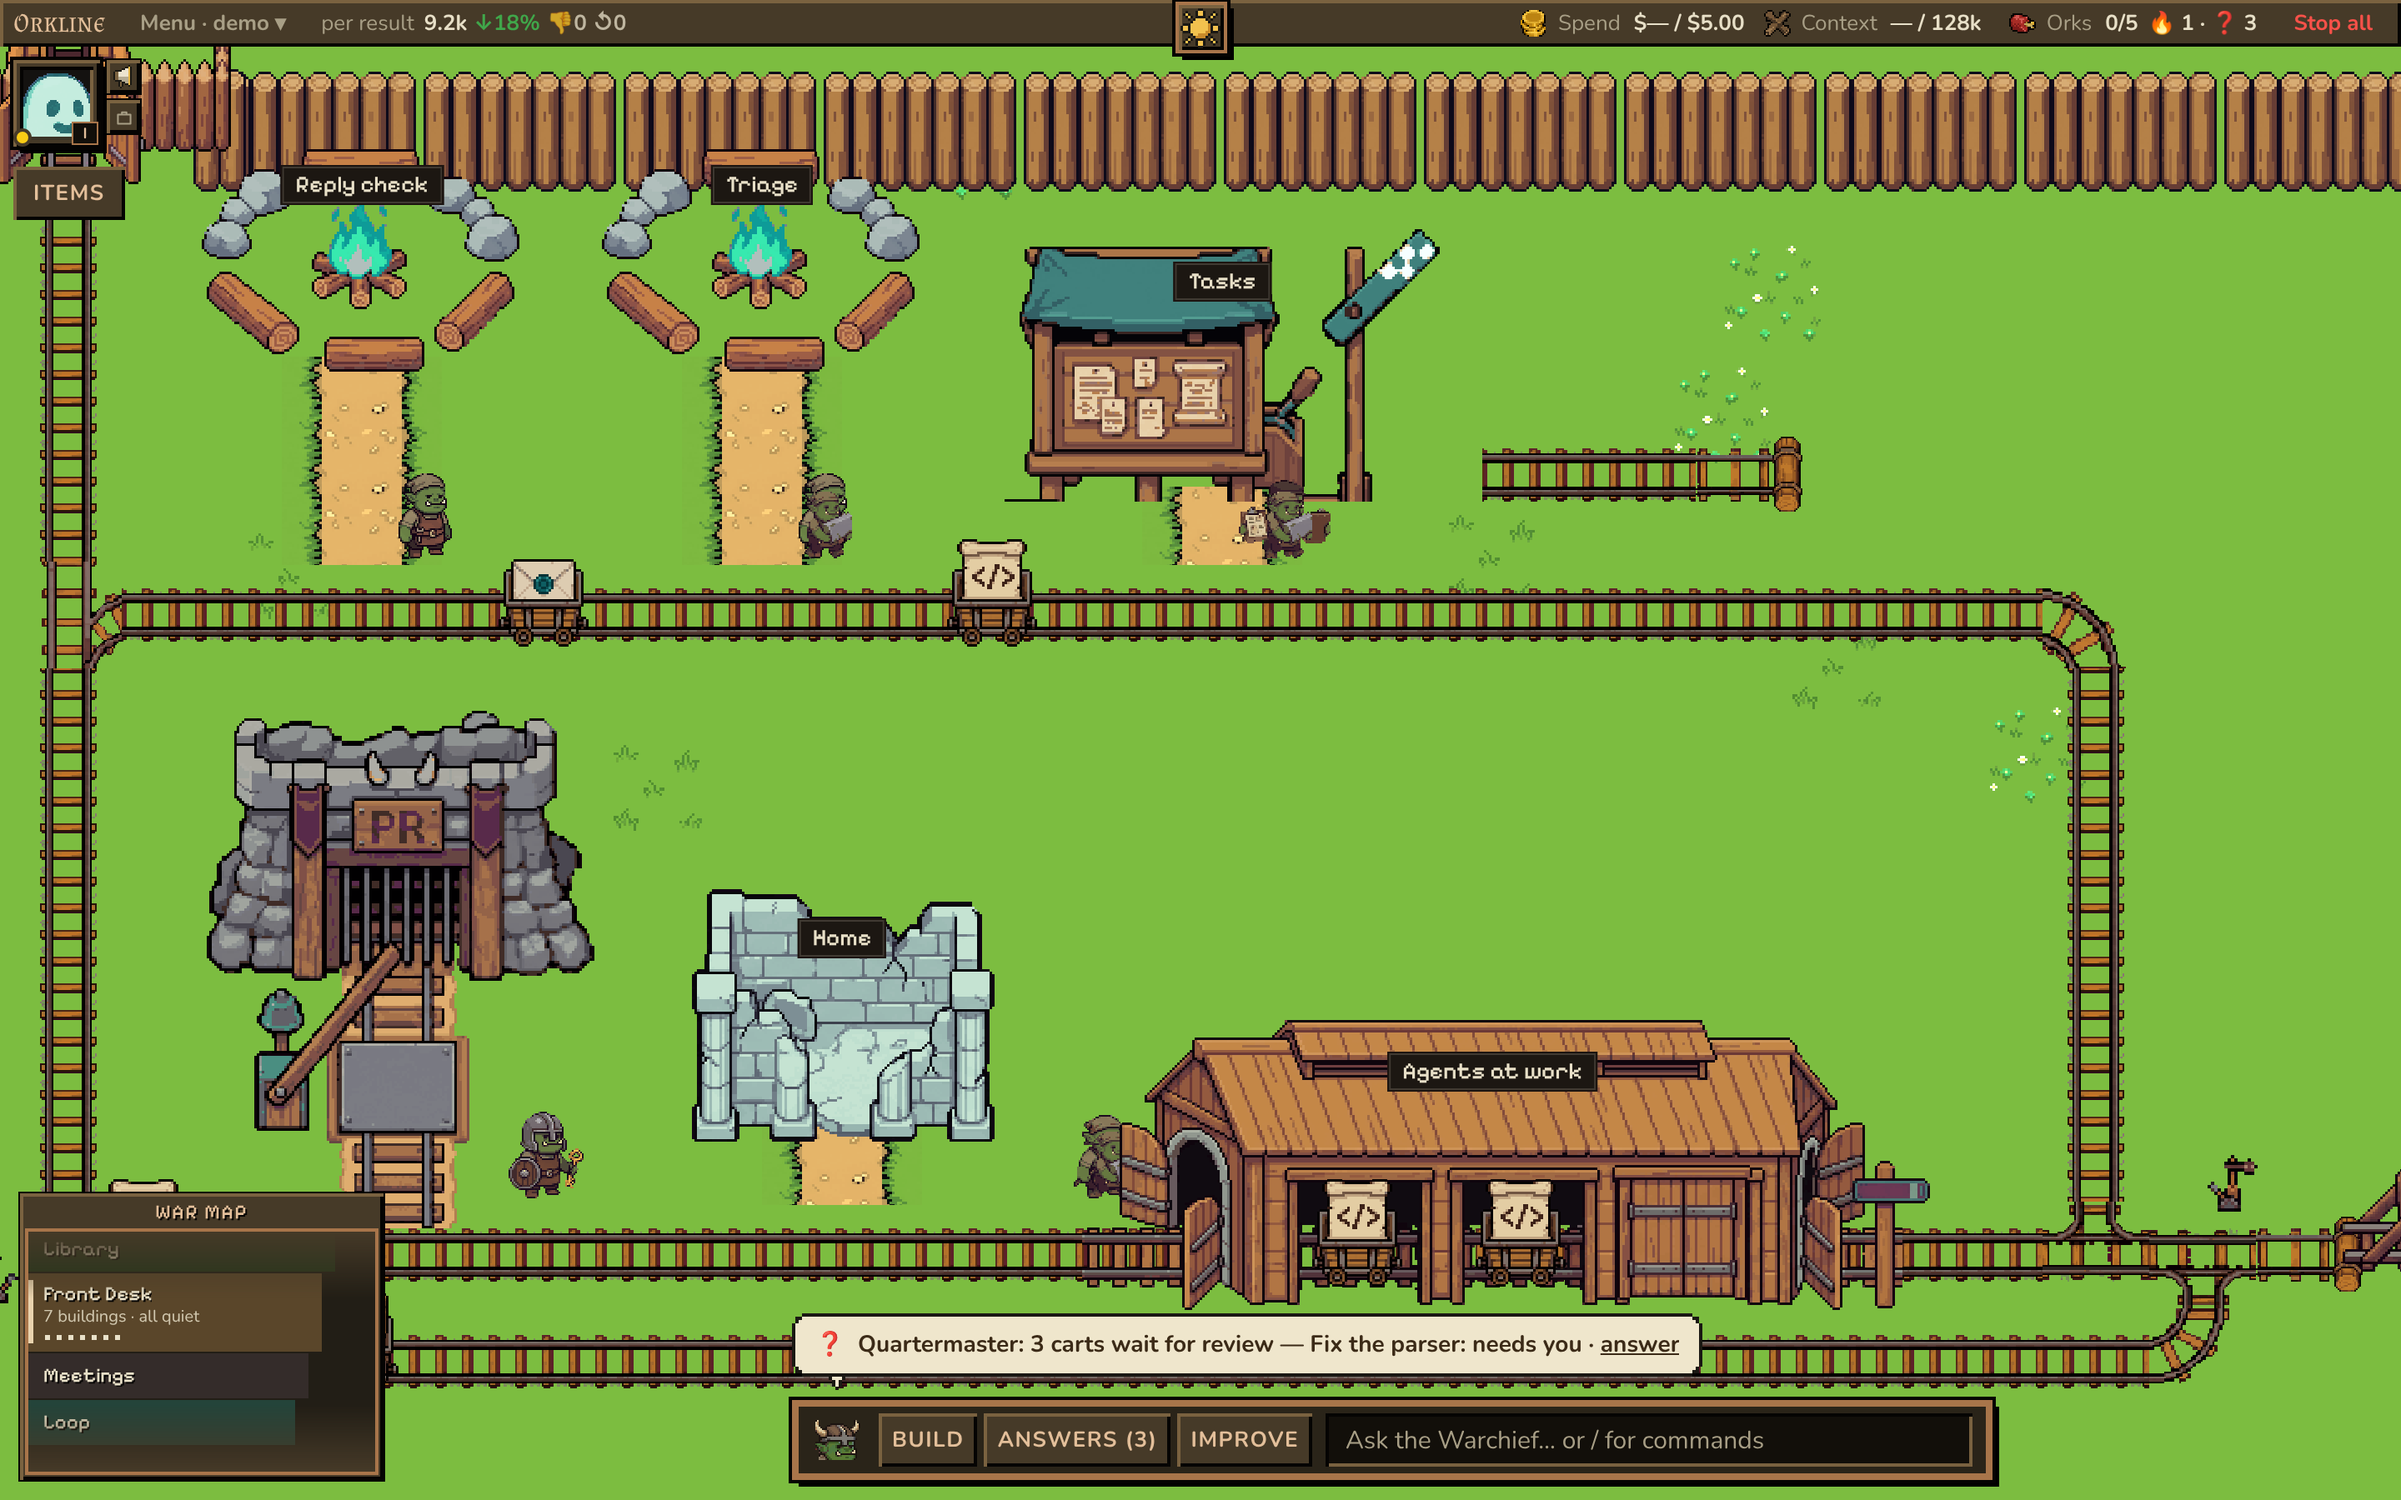
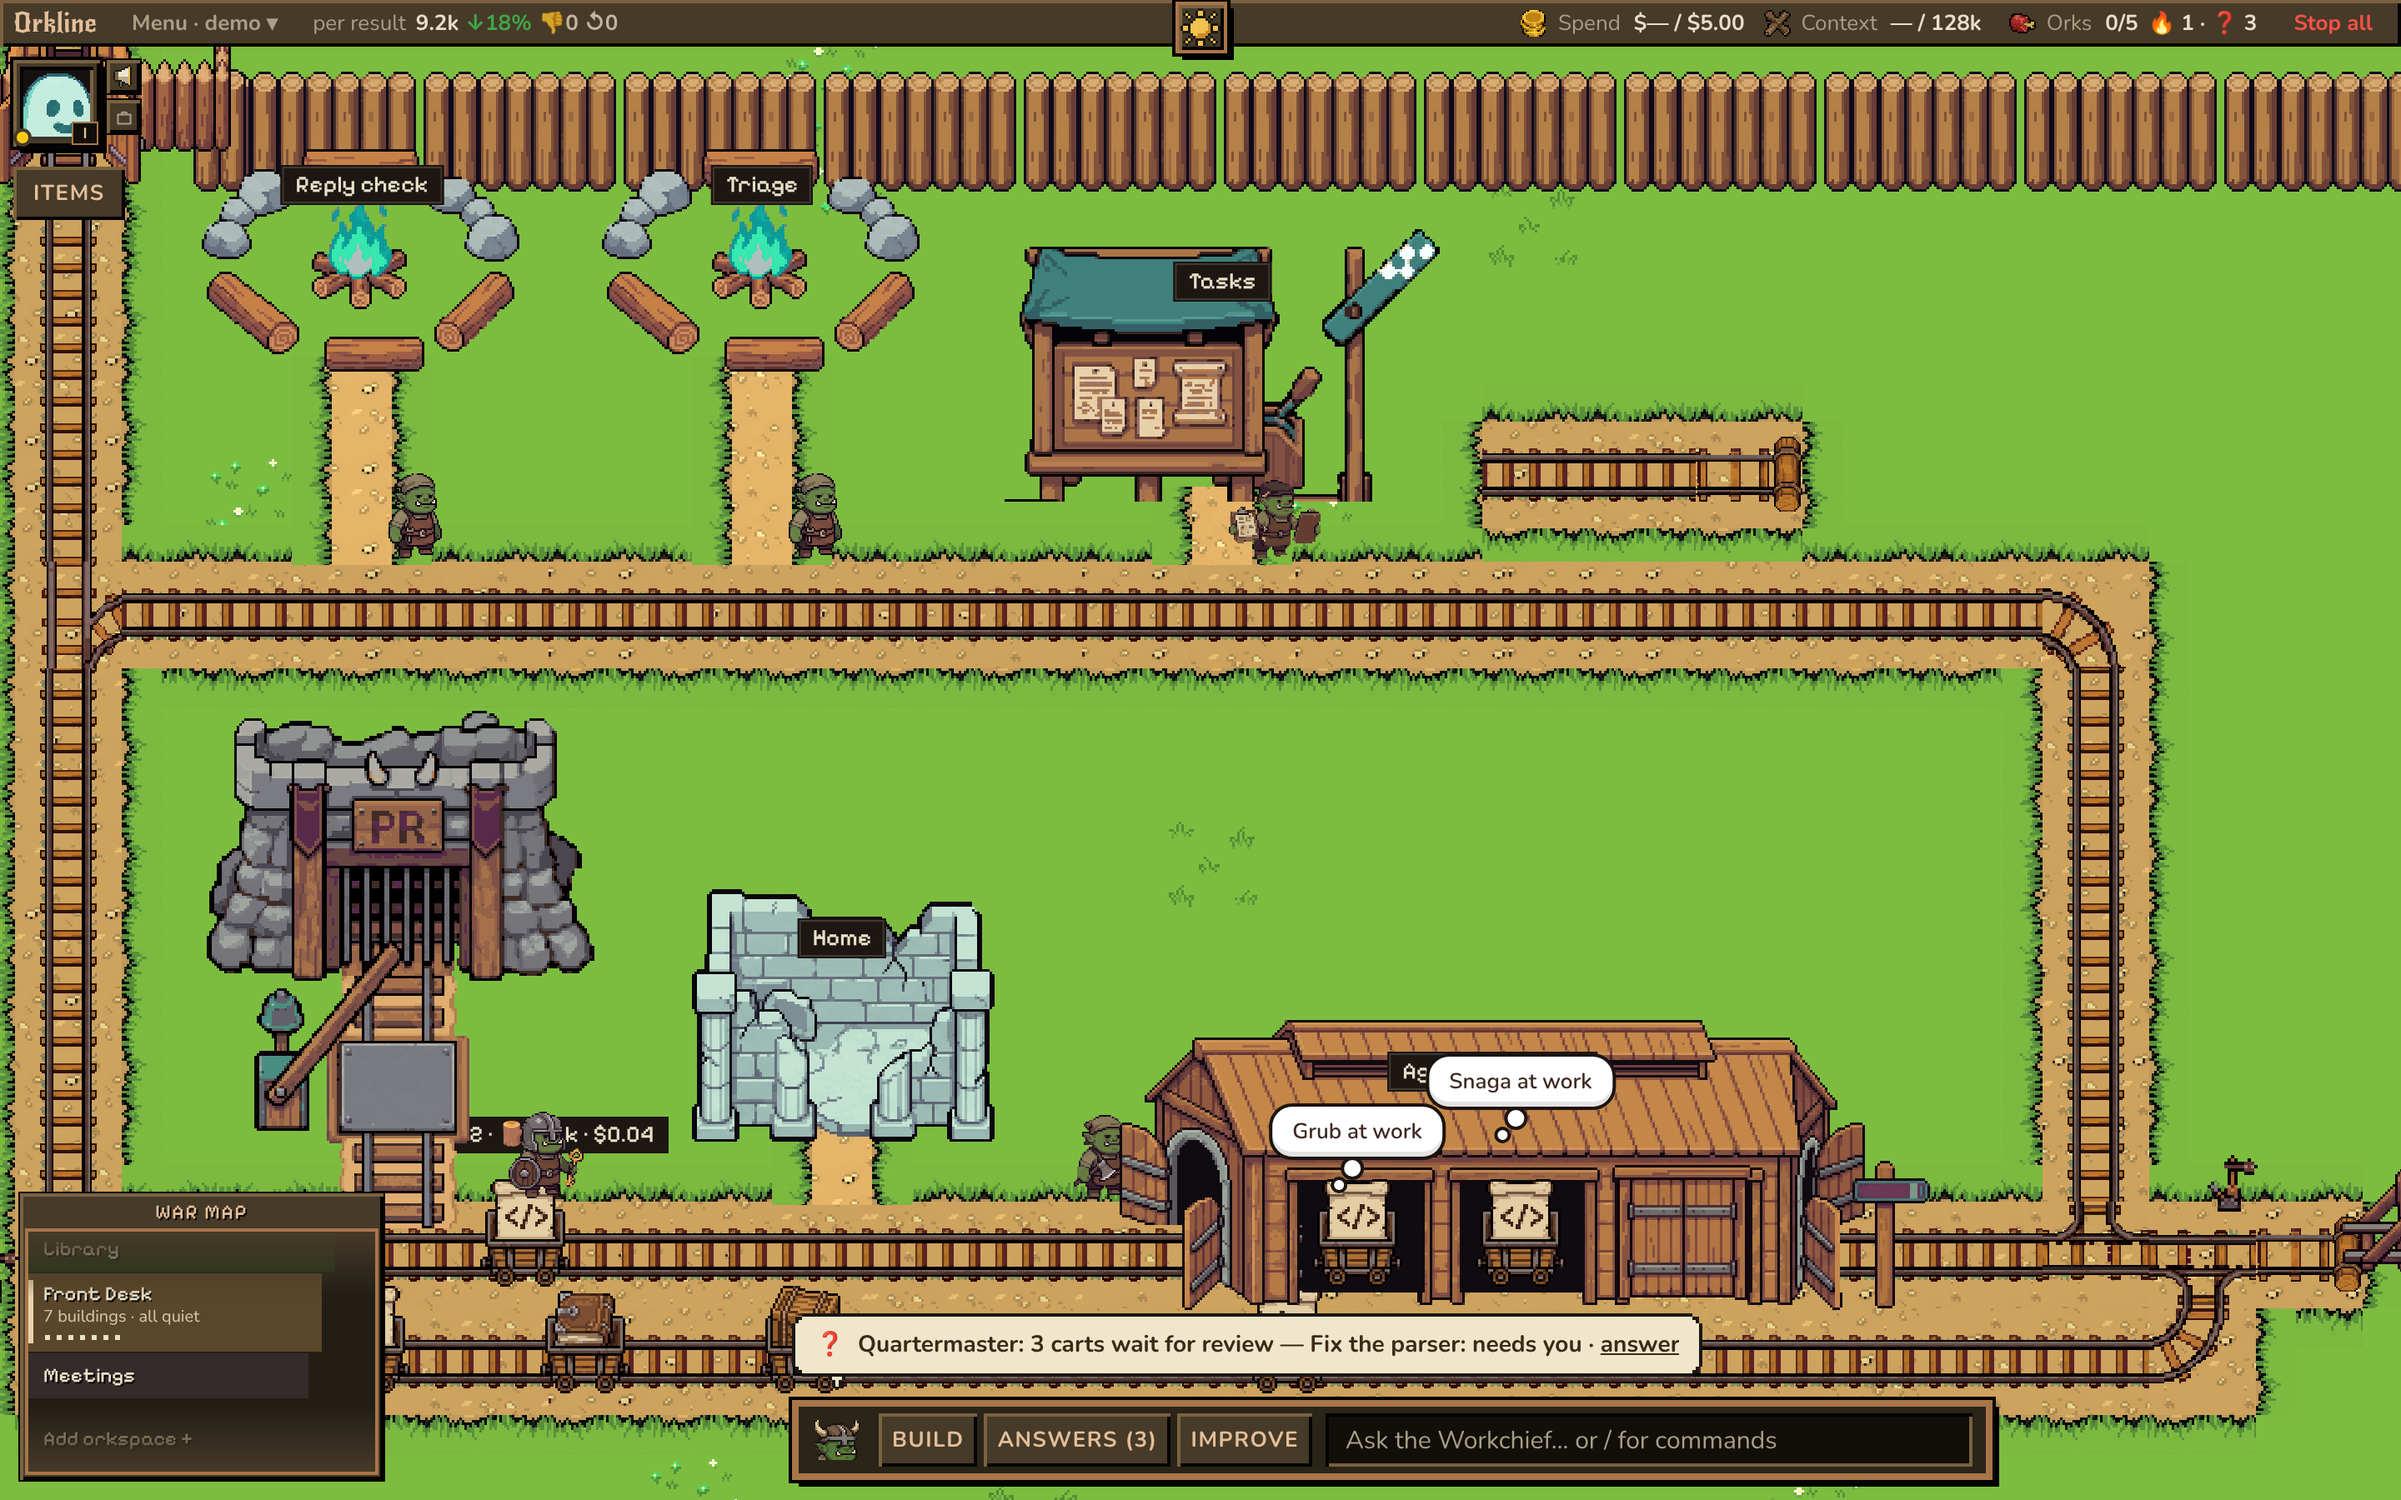
Camp: the depot over the line, a Grunt's bubble over each busy bay
The depot's sprite lost its drawn rails (780747a): the camp's line runs
under the shed and shows at its gateways. A busy bay shows the cart in
hand in its dark opening and its own Grunt's bubble over it (its name at
work), drawn above the shed; a free bay keeps its shutters.

Claude-Session: https://claude.ai/code/session_01UgRxyAxUf28MQWrZTqTq3V

diff --git a/orkcraft/gui/static/js/camp/town.js b/orkcraft/gui/static/js/camp/town.js
@@ -18,7 +18,7 @@ import { lay, stepsFor, DEFAULT_STEP, SIDING_SHOWN, PATH_W } from "./layout.js";
 import { V3, kit, loadKit, sizeOf } from "./sprites.js";
 import { grassOf, earthOf, shiftOf, bedOf, hash, STAND_IN } from "./ground.js";
 import { CampCarts, Finale, Switches, arriving, leaving } from "./carts.js";
-import { hovered, StewardOut } from "./steward.js";
+import { hovered, StewardOut, Bubble, thought } from "./steward.js";
 import { Stewards } from "./orks.js";
 import { Badge } from "./signals.js";
 import { typeModule } from "../types.js";
@@ -253,18 +253,25 @@ function Home({ L, you }) {
 /** How many of a building's orks are at work now (the depot's busy bays, §4d). */
 export const busyBays = (b) => (b.garrison || []).filter((o) => o.status === "busy").length || (busyOf(b) ? 1 : 0);
 
-/** The depot's bays (§4d): a busy bay holds the cart a Grunt is at work on; a free one has its shutters closed
- *  (`depot/doors.png`); more at work than its three bays a `+N` chip; the semaphore at its east gateway, where its exit
- *  track (Mission 1b's proving siding) begins. Over the shed, sorted with it. */
-function Depot({ L, buildings }) {
+/** The depot's bays (§4d): a busy bay holds the cart a Grunt is at work on, the Grunt's bubble over it; a free one has
+ *  its shutters closed (`depot/doors.png`); more at work than its three bays a `+N` chip; the semaphore at its east
+ *  gateway, where its exit track (Mission 1b's proving siding) begins. The line runs under the shed (its gateways open
+ *  onto it). Over the shed, sorted with it. */
+function Depot({ L, buildings, onBubble = null }) {
   const B = L.step.b, T = L.T, out = [];
   for (const b of buildings) {
     const p = L.buildings[b.id];
     if (!p || !p.depot) continue;
     const busy = busyBays(b), z = 11 + Math.round(p.feet / 8);
+    const grunts = (b.garrison || []).filter((o) => o.status === "busy");          // each bay's Grunt, its bubble its own
     const doors = sizeOf("depot/doors.png"), cart = sizeOf("carts/code.png") || [40, 48];
     p.bays.forEach((x, i) => {
-      if (i < busy) out.push(img("carts/code.png", x - (cart[0] * B) / 2, p.rail + T * 0.3 - cart[1] * B, cart[0] * B, cart[1] * B, `z-index:${z}`));
+      if (i < busy) {
+        out.push(img("carts/code.png", x - (cart[0] * B) / 2, p.rail + T * 0.3 - cart[1] * B, cart[0] * B, cart[1] * B, `z-index:${z}`));
+        out.push(html`<div class="gui-camp__over" style=${`z-index:${z + 1}`}>
+          <${Bubble} x=${x} y=${p.y + (i % 2 ? 40 : 60) * B} text=${grunts[i] ? say(`${grunts[i].name} at work`) : thought(b)}
+            onClick=${onBubble ? () => onBubble(b) : null} /></div>`);
+      }
       else if (doors) out.push(img("depot/doors.png", x - (doors[0] * B) / 2, p.y + 60 * B, doors[0] * B, doors[1] * B, `z-index:${z}`));
     });
     if (busy > p.bays.length) {
@@ -439,7 +446,7 @@ export function CampTown({ buildings, roads }) {
       </div>
       <${Growth} L=${L} buildings=${buildings} />
       <${Siding} L=${L} buildings=${buildings} />
-      <${Depot} L=${L} buildings=${buildings} />
+      <${Depot} L=${L} buildings=${buildings} onBubble=${onBubble} />
       <${CampCarts} L=${L} roads=${here} bays=${Object.fromEntries(buildings.map((b) => [b.id, busyBays(b)]))} carts=${carts} travel=${travel} avg=${averagePerResult(snapshot.value && snapshot.value.score)} />
       <${Stewards} L=${L} buildings=${buildings} roads=${here} out=${outId} soon=${arriving(L, here, carts, travel)} left=${leaving(here, carts)}
         onOrk=${onOrk} onBubble=${onBubble} />

diff --git a/orkcraft/gui/static/camp.css b/orkcraft/gui/static/camp.css
@@ -210,3 +210,4 @@
   50% { transform: translateX(var(--dx)) scaleX(-1); } 99.9% { transform: translateX(0) scaleX(-1); } }
 @keyframes gui-camp-carry { from { transform: translateX(0); } to { transform: translateX(var(--dx)); } }
 @media (prefers-reduced-motion: reduce) { .gui-camp__ork.is-moving { animation: none; } }
+.gui-camp__over { position: absolute; left: 0; top: 0; width: 0; height: 0; }

diff --git a/docs/design/design-system-v3.md b/docs/design/design-system-v3.md
@@ -537,7 +537,8 @@ shutters, and the semaphore in two positions (`depot/semaphore-0|1`).
 - **Bays.** A cart for the pool rolls in at the west gateway to its first free bay and stops on the through track; a
   cart behind it waits. With every bay busy it stops on the line before the gateway. A cart for a building beyond
   rolls through.
-- **Busy or free.** Busy bays (its Grunts at work) show the cart in hand, free ones their shutters
+- **Busy or free.** The line runs under the shed (780747a: no drawn rails, dark bay floors). Busy bays (its Grunts at
+  work) show the cart in hand in the opening, that Grunt's bubble over it; free ones their shutters
   (`depot/doors.png`), more than three a `+N` chip.
 - **The exit.** `depot/semaphore-0` stands at the east gateway where the exit track begins. Raising it, the verdict
   and the shunt back into a bay are Mission 1b's.
